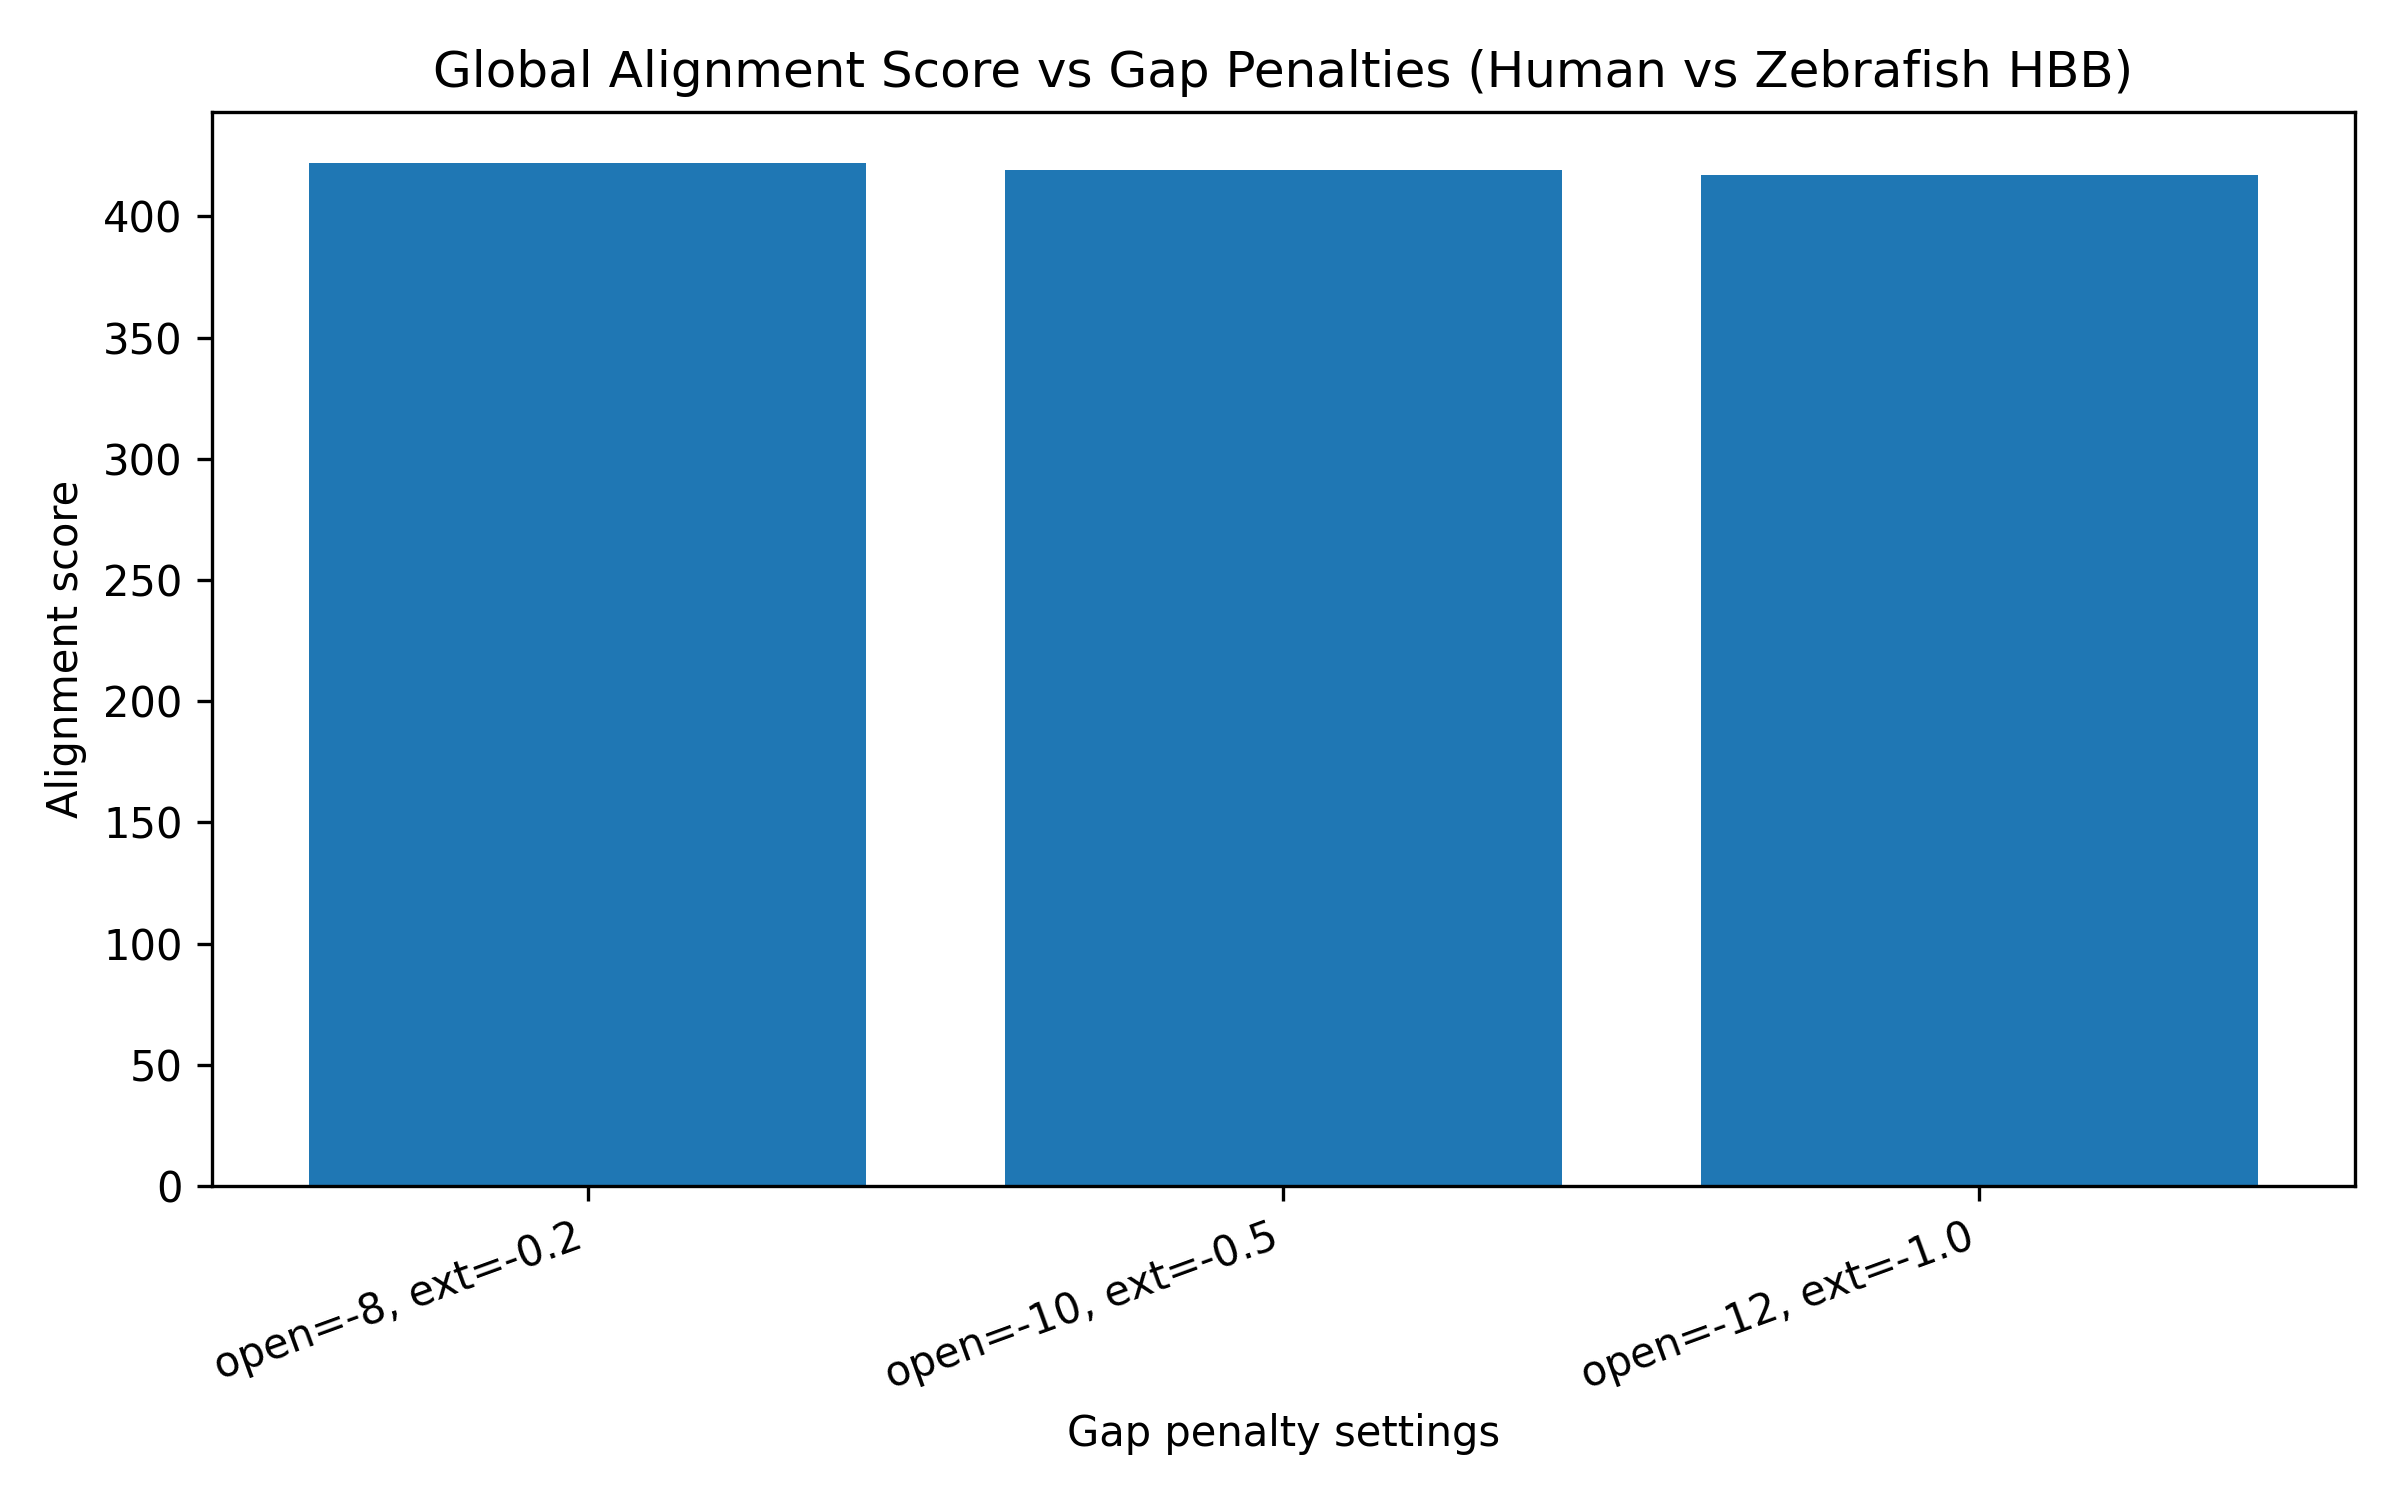
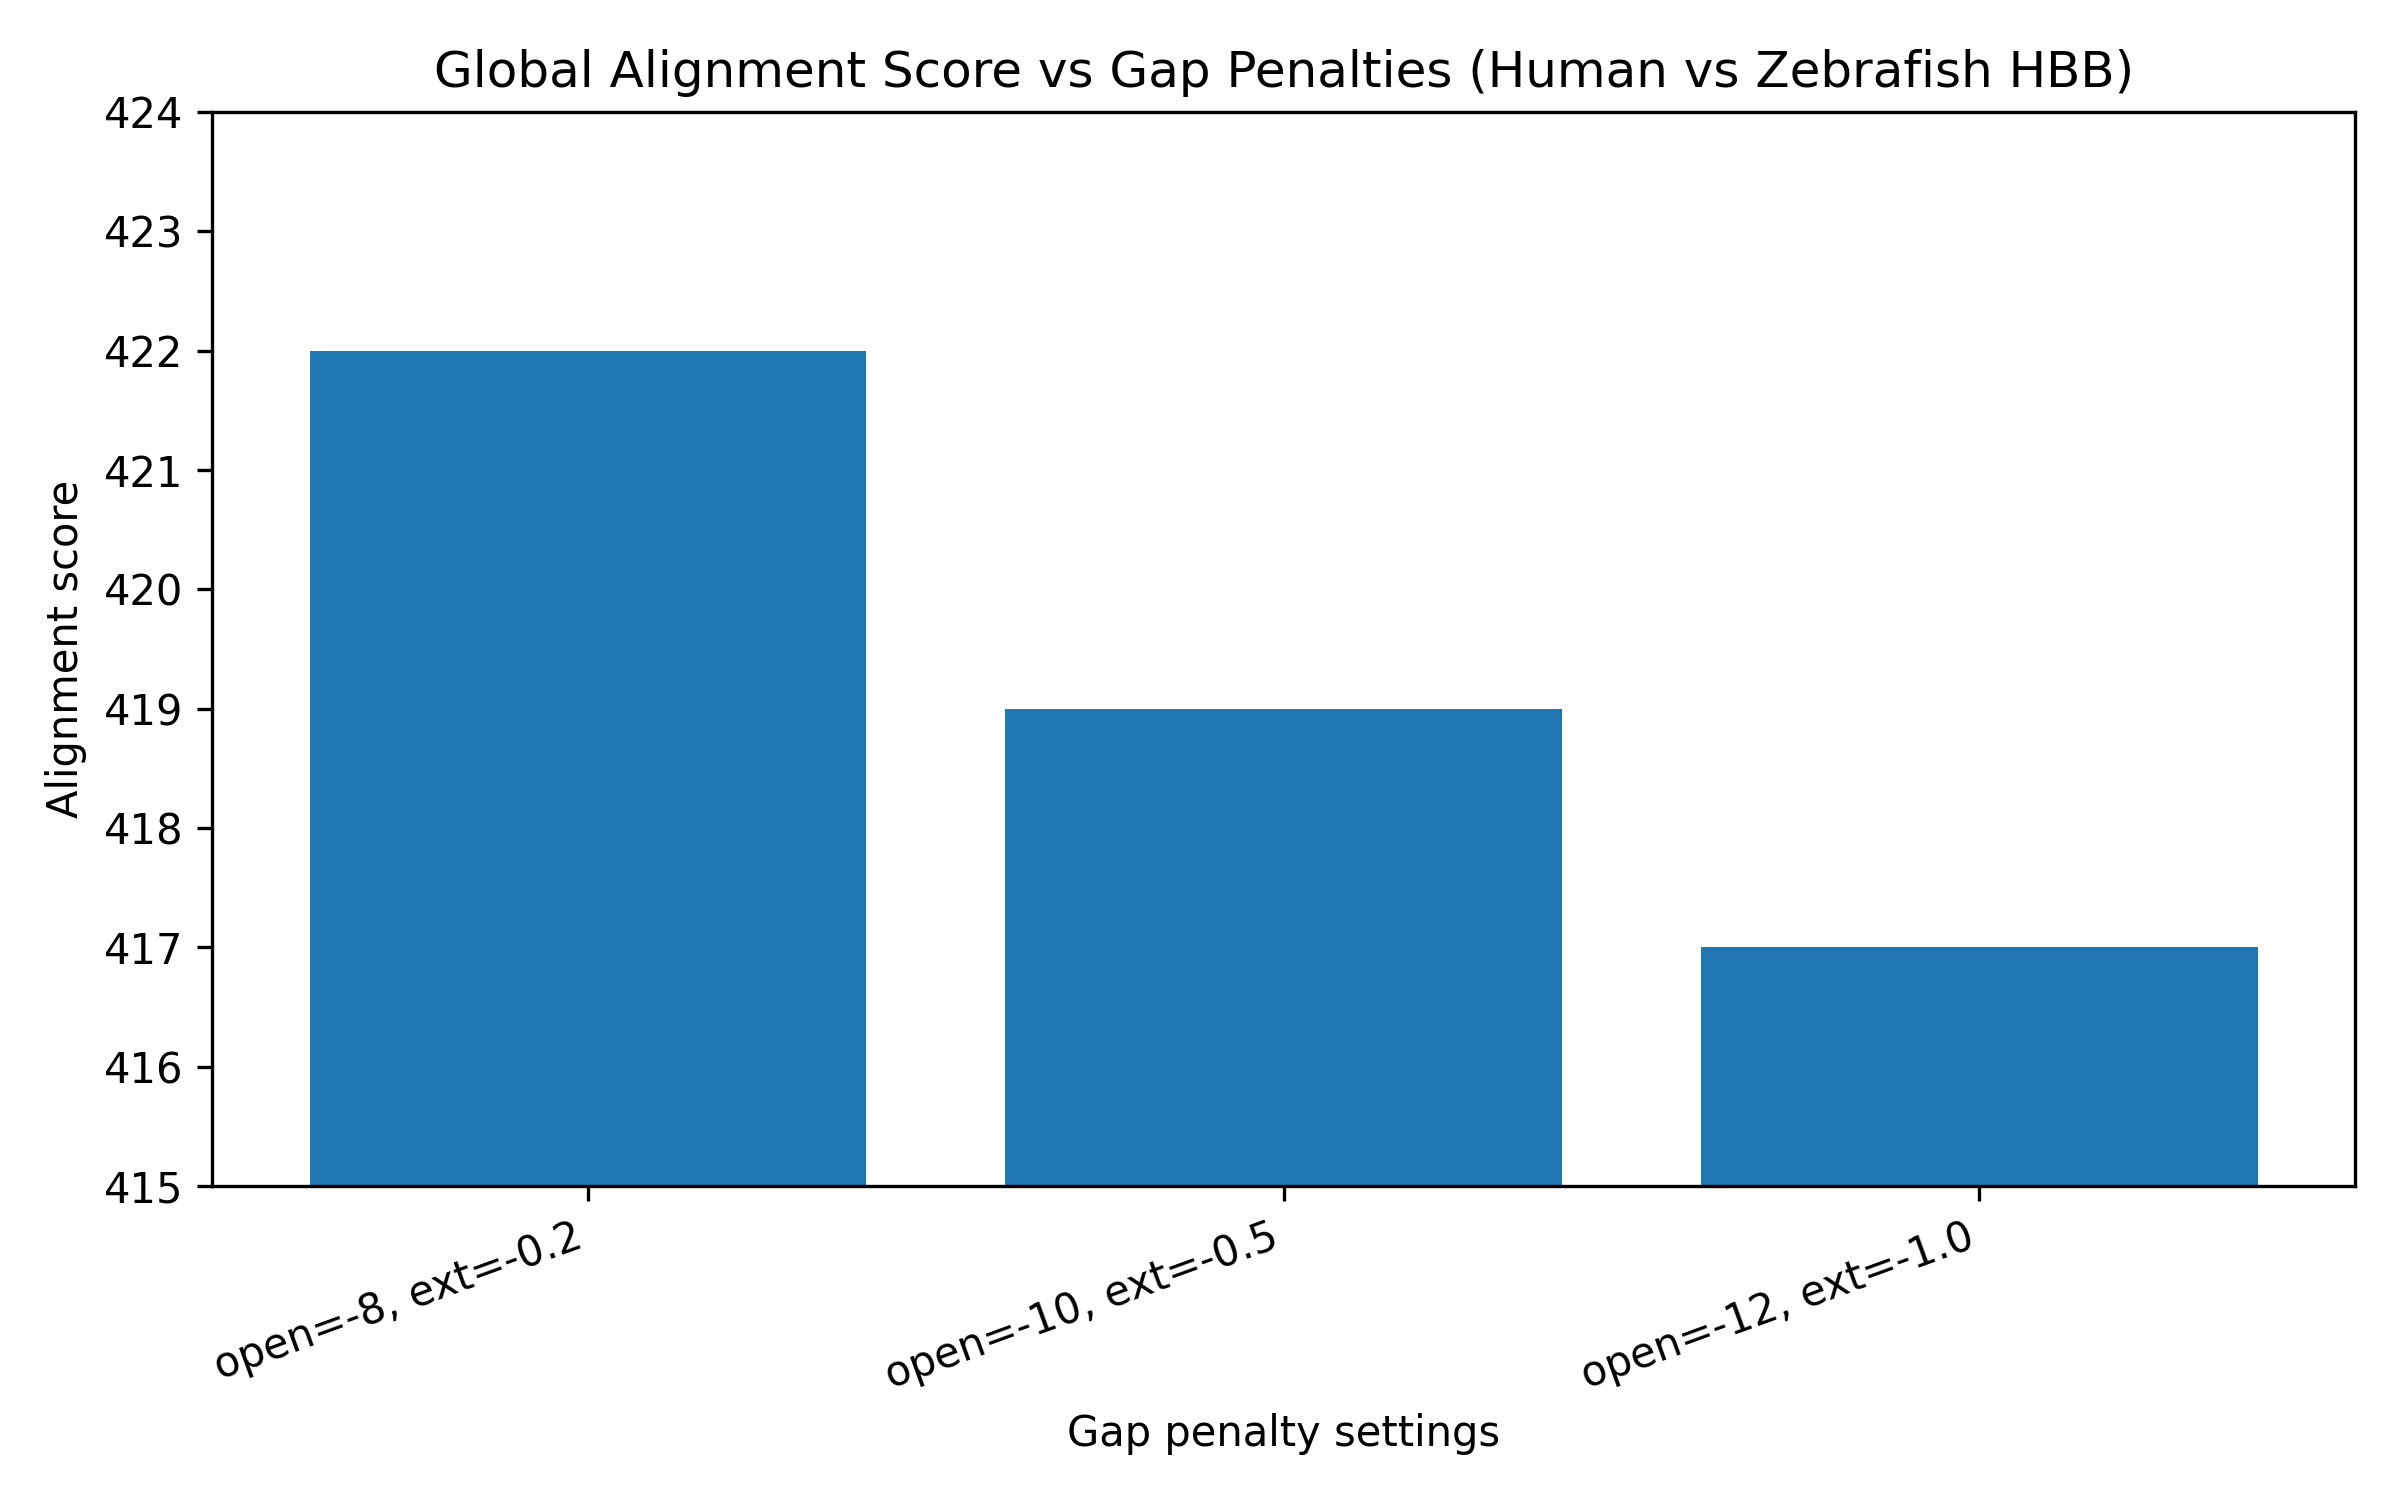
Adjust y-axis limits for gap score plots and save updated figures

diff --git a/scripts/08_plot_pairwise_gap_experiment.py b/scripts/08_plot_pairwise_gap_experiment.py
@@ -33,6 +33,7 @@ plt.title("Global Alignment Score vs Gap Penalties (Human vs Zebrafish HBB)")
 plt.xlabel("Gap penalty settings")
 plt.ylabel("Alignment score")
 plt.xticks(rotation=20, ha="right")
+plt.ylim(min(global_scores) - 2, max(global_scores) + 2)
 plt.tight_layout()
 plt.savefig("results/figures/global_gap_scores.png", dpi=300)
 plt.close()
@@ -44,6 +45,7 @@ plt.title("Local Alignment Score vs Gap Penalties (Human vs Zebrafish HBB)")
 plt.xlabel("Gap penalty settings")
 plt.ylabel("Alignment score")
 plt.xticks(rotation=20, ha="right")
+plt.ylim(min(local_scores) - 2, max(local_scores) + 2)
 plt.tight_layout()
 plt.savefig("results/figures/local_gap_scores.png", dpi=300)
 plt.close()
